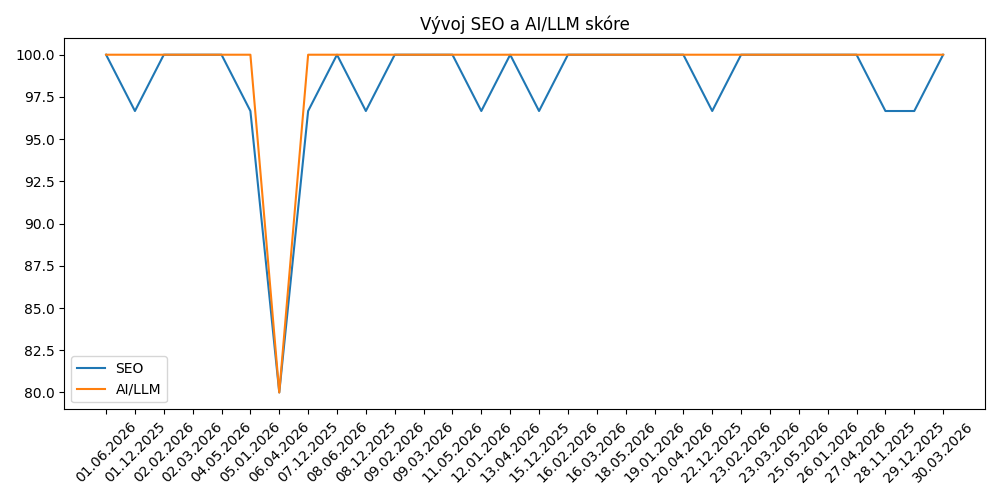
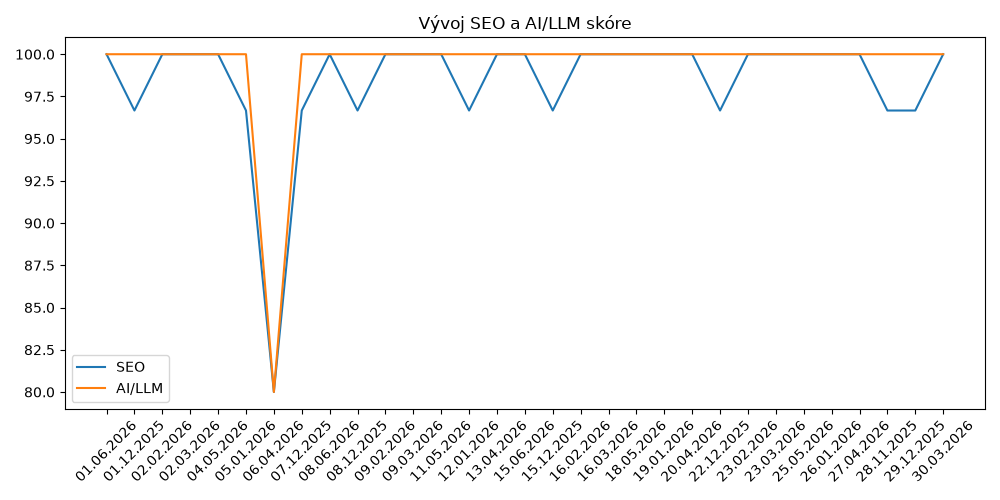
Automatický týdenní report

diff --git a/reports/report_15.06.2026.md b/reports/report_15.06.2026.md
@@ -1,0 +1,35 @@
+# Týdenní report – 15.06.2026
+
+## 📈 Vývoj Performance
+![Performance](../reports/performance_trend.png)
+
+## 📘 Vývoj SEO + AI/LLM skóre
+![SEO AI](../reports/seo_ai_trend.png)
+
+## 🔵 https://www.o2.cz/
+
+### 📱 Mobile Performance: **0**
+### 🖥 Desktop Performance: **0**
+### 🔍 SEO: **100**
+### 🤖 AI/LLM: **100**
+
+### ✔ Obrázky jsou v pořádku
+
+## 🔵 https://www.o2.cz/osobni/o2spolu
+
+### 📱 Mobile Performance: **0**
+### 🖥 Desktop Performance: **0**
+### 🔍 SEO: **100**
+### 🤖 AI/LLM: **100**
+
+### ✔ Obrázky jsou v pořádku
+
+## 🔵 https://www.o2.cz/osobni/oneplay
+
+### 📱 Mobile Performance: **0**
+### 🖥 Desktop Performance: **0**
+### 🔍 SEO: **100**
+### 🤖 AI/LLM: **100**
+
+### ✔ Obrázky jsou v pořádku
+